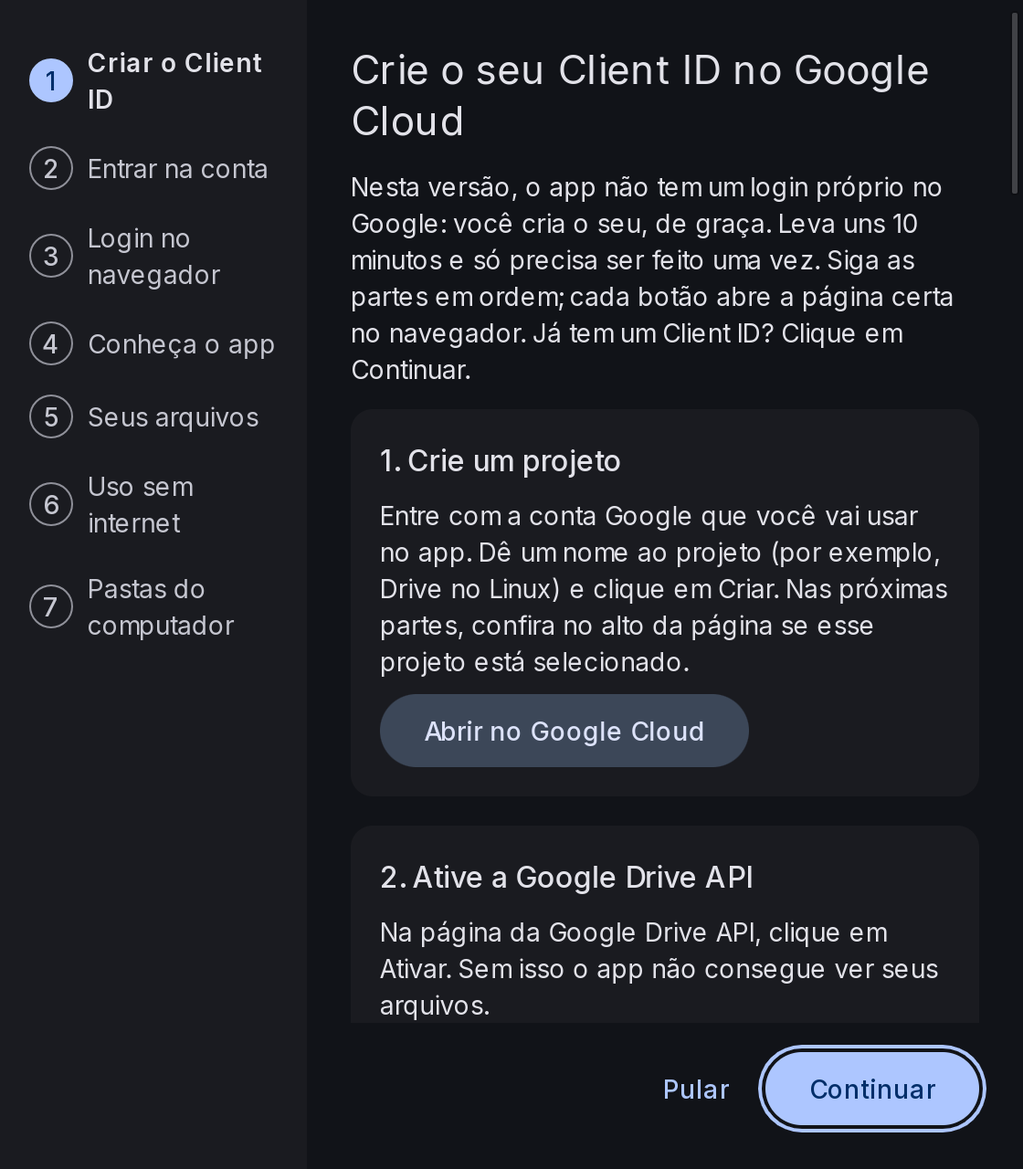
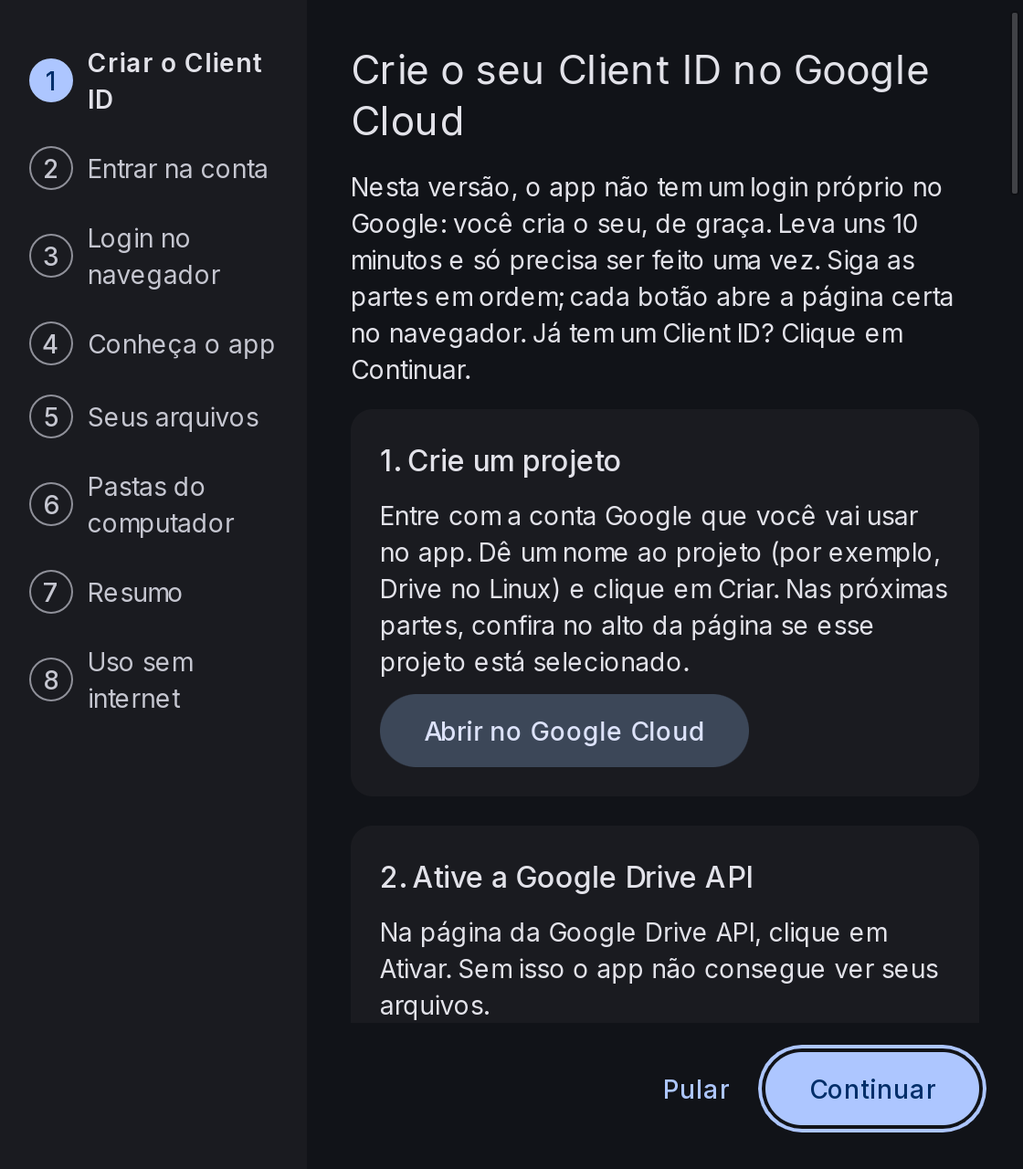
Versão 0.11.0
Matriz de paridade conferida (os quatro itens que faltam ficam em
"Diferenças inevitáveis" no README), CHANGELOG, versão, README, página do
projeto e ajuda. As capturas do README ganham a visão de Drives
compartilhados, as configurações da engrenagem, o Resumo do primeiro uso e o
tour; o teste das capturas e o do Resumo passam a usar o mesmo atalho até o
passo Resumo.

Changed region(s): [[0.0312, 0.5, 0.2188, 0.625], [0.0938, 0.4062, 0.2188, 0.4688]]

diff --git a/crates/gdl-ui/tests/e2e.rs b/crates/gdl-ui/tests/e2e.rs
@@ -1275,7 +1275,20 @@ async fn screenshots_for_the_readme() {
     home.wait_text(".activity-table tbody", "enviado-pelo-teste.txt")
         .await;
     save(&home, "atividade").await;
+    home.click("[data-view='drives']").await;
+    home.wait_text(".drives", "Equipe").await;
+    save(&home, "visao-drives").await;
     drop(home);
+
+    let (summary, _) = open_onboarding_summary().await;
+    save(&summary, "resumo").await;
+    drop(summary);
+
+    let gear = Session::open("preferences").await;
+    gear.click(".settings-gear").await;
+    gear.wait_text(".tab-content", "Iniciar").await;
+    save(&gear, "configuracoes").await;
+    drop(gear);
 
     let search = Session::open("search").await;
     search.fill(".search-field", "r").await;
@@ -1300,6 +1313,7 @@ async fn screenshots_for_the_readme() {
             "Equipe",
             "drives-compartilhados",
         ),
+        ("home:tour", ".tour", "O estado da sincronização", "tour"),
     ] {
         let session = Session::open(screen).await;
         session.wait_text(css, wanted).await;
@@ -1443,10 +1457,8 @@ async fn gear_changes_are_saved_with_the_tabs() {
     assert_eq!(metered.value, "true");
 }
 
-// O passo Resumo do primeiro uso mostra a conta e a pasta do Drive escolhidas.
-#[tokio::test(flavor = "multi_thread")]
-#[ignore = "precisa do scripts/e2e.sh"]
-async fn onboarding_summary_lists_the_choices() {
+/// Abre o primeiro uso já no passo Resumo (com a conta de teste) e devolve o texto dele.
+async fn open_onboarding_summary() -> (Session, String) {
     let account = service().await.status("").await.unwrap().account;
     let session = Session::open("onboarding").await;
     session.wait_text(".step-title", "").await;
@@ -1454,6 +1466,14 @@ async fn onboarding_summary_lists_the_choices() {
         session.click(".continue").await;
     }
     let summary = session.wait_text(".summary", &account).await;
+    (session, summary)
+}
+
+// O passo Resumo do primeiro uso mostra a conta e a pasta do Drive escolhidas.
+#[tokio::test(flavor = "multi_thread")]
+#[ignore = "precisa do scripts/e2e.sh"]
+async fn onboarding_summary_lists_the_choices() {
+    let (session, summary) = open_onboarding_summary().await;
     session.click(".back").await;
     session.find(".suggested-folders").await;
 

diff --git a/docs/paridade.md b/docs/paridade.md
@@ -1,16 +1,19 @@
 # Matriz de paridade
 
 Situação de cada item do catálogo da [especificação](superpowers/specs/2026-10-25-gdrive-desktop-linux-design.md)
-(seção 6) no código, conferida depois da versão 0.10.0 (28/10/2026). A 1.0 sai quando todos os itens estiverem
-**FEITO** ou registrados em "Diferenças conhecidas" no README como risco aceito.
+(seção 6) no código, conferida depois da versão 0.11.0 (28/10/2026). A 1.0 sai quando todos os itens estiverem
+**FEITO** ou registrados em "Diferenças inevitáveis" no README como risco aceito.
 
 Legenda: **FEITO**, **PARCIAL** (existe, mas incompleto), **FALTA**.
 
 | Seções | FEITO | PARCIAL | FALTA |
 |---|---|---|---|
-| 6.1–6.6 (contas, pasta, cache, sincronização, backup, Drives compartilhados) | 63 | 6 | 2 |
-| 6.7–6.11 (janela principal, bandeja, pesquisa, Preferências, primeiro uso) | 71 | 1 | 8 |
-| 6.12–6.17 (Dolphin, compartilhar e versões, notificações, diagnóstico, políticas, MCP) | 71 | 1 | 2 |
+| 6.1–6.6 (contas, pasta, cache, sincronização, backup, Drives compartilhados) | 70 | 0 | 1 |
+| 6.7–6.11 (janela principal, bandeja, pesquisa, Preferências, primeiro uso) | 79 | 0 | 1 |
+| 6.12–6.17 (Dolphin, compartilhar e versões, notificações, diagnóstico, políticas, MCP) | 72 | 0 | 2 |
+
+Os quatro itens em FALTA (NAS, atalho global pelo KGlobalAccel, "Adicionar ao espelho" e
+"Perguntar ao Gemini" no Dolphin) estão em "Diferenças inevitáveis" no README.
 
 Os pacotes `.deb` e `.rpm` exigidos pela 1.0 já saem em cada release (`packaging/nfpm.yaml`,
 `.github/workflows/release.yml`).
@@ -23,8 +26,8 @@ Os pacotes `.deb` e `.rpm` exigidos pela 1.0 já saem em cada release (`packagin
 | 0.8 | Várias contas (até 4), uma montagem por conta, `DisableAddAccount`; Drives compartilhados na montagem, "Gerenciar drives compartilhados" e criar drive; "Adicionar atalho" no menu, escolhendo o local ✅ |
 | 0.9 | Backup de pastas ("Meu computador"), pastas conectadas e "Computadores", modo Espelho com troca entre modos, dispositivos removíveis ✅ (NAS fica como diferença) |
 | 0.10 | Diagnóstico, registro detalhado e feedback; notificações restantes e aviso de nova versão; servidor MCP; políticas restantes; ransomware e recuperação do banco ✅ |
-| 0.11 | Últimos itens da janela, da bandeja e das Preferências; tour de boas-vindas; limites do Drive com mensagem própria |
-| 1.0 | Matriz toda conferida, "Diferenças conhecidas" no README |
+| 0.11 | Últimos itens da janela, da bandeja e das Preferências; tour de boas-vindas; limites do Drive com mensagem própria ✅ |
+| 1.0 | Matriz toda conferida, "Diferenças inevitáveis" no README |
 
 
 Legenda: FEITO, PARCIAL, FALTA. Caminhos relativos a `crates/`. Resumo geral: até 4 contas, cada uma com a própria montagem (Meu Drive e Drives compartilhados); modo Stream ou Espelho, pastas do computador em "Computadores" e backup de dispositivos.
@@ -39,7 +42,7 @@ Legenda: FEITO, PARCIAL, FALTA. Caminhos relativos a `crates/`. Resumo geral: at
 | Página de resultado própria | FEITO | `oauth.rs:261` `result_page` (login-success/login-failure) |
 | Até 4 contas simultâneas | FEITO | `daemon/accounts.rs` (`MAX_ACCOUNTS = 4`), uma montagem por conta (`<pasta> (<e-mail>)` a partir da segunda); testes `second_account_mounts_beside_the_first`, `fifth_account_is_refused` |
 | Adicionar, alternar, reautenticar, desconectar uma/todas | FEITO | `home/account.js` (lista de contas, trocar, "Adicionar outra conta", "Entrar de novo"), `more.js` "Desconectar todas as contas" (`LogoutAll`); testes `signing_in_again_resumes_the_queue`, `logout_of_one_keeps_the_other_mounted` |
-| Erros com mensagem própria | PARCIAL | Timeout, Denied, sem refresh token, "Sem conexão", conta já conectada, máximo atingido, outra conta no "entrar de novo" e `DisableAddAccount` (`onboarding-login-failed-*`). Falta: conta bloqueada/desativada pela organização, "login demorando" |
+| Erros com mensagem própria | FEITO | Timeout, Denied, sem refresh token, "Sem conexão", conta já conectada, máximo atingido, outra conta no "entrar de novo", `DisableAddAccount`, organização que bloqueia o app (`admin_policy_enforced`, `org_internal`) e conta desativada (`onboarding-login-failed-*`); "O login está demorando?" depois de 60 s, com "Gerar link de novo" e os problemas comuns (`gdl-drive/src/oauth.rs`, `onboarding.js`) |
 | Refresh token no Secret Service | FEITO | `gdl-drive/src/token_store.rs` (chaveiro do sistema) |
 | Fluxo de desconexão (contagem, 3 escolhas, confirmação, aviso off-line, progresso) | FEITO | `ui/screens/home/disconnect.js` (finish/move/discard com checkbox de confirmação, `disconnect-offline-warning`, `disconnect-progress`); `daemon.rs:logout` |
 | Política `AllowedAccountsPattern` | FEITO | `daemon.rs:781` `allowed()`; teste em `dbus_tests.rs` |
@@ -85,19 +88,19 @@ Legenda: FEITO, PARCIAL, FALTA. Caminhos relativos a `crates/`. Resumo geral: at
 
 | Item | Situação | Evidência / o que falta |
 |---|---|---|
-| Envio/recebimento automáticos, progresso por item | PARCIAL | `gdl-engine/src/activity.rs` (`ActivityState`: fila, enviando %, enviado, cancelando, cancelado, baixando, lixeira, restaurando). Falta o estado "pausado" por item |
+| Envio/recebimento automáticos, progresso por item | FEITO | `gdl-engine/src/activity.rs` (`ActivityState`: fila, pausado, enviando %, enviado, cancelando, cancelado, baixando, lixeira, restaurando); com a sincronização pausada, a fila aparece como "pausado" |
 | Cancelar upload, aviso "concluiu antes", pasta "uploads cancelados" | FEITO | `uploads.rs CancelOutcome` (Canceled/TooLate/InUse), `kept.rs` |
 | Detecção de conflito por revisão-base | FEITO | `schema.rs`, `changes.rs` (teste `remote_edit_over_dirty_item_marks_conflict`) |
-| Stream: nuvem no caminho original, edição em Lost and Found, notificação com "Ver arquivos" e "Mover tudo para…" | PARCIAL | `uploads.rs:631`, `notify.rs:92` só oferece "Ver arquivos" (`OPEN_LOST_FOUND`). Falta a ação "Mover tudo para…" |
+| Stream: nuvem no caminho original, edição em Lost and Found, notificação com "Ver arquivos" e "Mover tudo para…" | FEITO | `uploads.rs`, `notify.rs` (`OPEN_LOST_FOUND` e `MOVE_LOST_FOUND`); "Mover tudo para…" pede a pasta na janela e chama `MoveLostAndFound` (`gdl-daemon/src/daemon/lost_found.rs`), sem sobrescrever nada |
 | Envio impossível (sem permissão etc.) vai para Lost and Found | FEITO | teste `permission_denied_goes_to_lost_and_found` |
 | Excluído na nuvem com edição pendente: não recria, Lost and Found | FEITO | teste `remote_delete_during_pending_edit_goes_to_lost_and_found_and_is_not_recreated` |
 | Espelho: duas versões lado a lado com sufixo de conflito | FEITO | `gdl-folders/src/decide.rs` (` (conflito AAAA-MM-DD HHhMM)`), teste `both_edited_keeps_both_versions_everywhere` |
 | Recuperar arquivos não sincronizados | FEITO | `uploads.rs:234 recover_on_start`; Lost and Found e pendentes copiáveis no logout `--move` |
 | Recuperação automática após falha do banco local | FEITO | `gdl-store/src/salvage.rs` (`quick_check` na abertura), `gdl-engine/src/recovery.rs`; teste `corrupt_database_keeps_pending_content` |
 | Detecção de ransomware (entropia, pausa, aviso com 3 opções) | FEITO | `gdl-engine/src/ransomware.rs` (entropia > 7,6, 20 em 60 s, formatos comprimidos fora), pausa própria e aviso com as 3 opções; testes `twenty_encrypted_files_pause`, `compressed_formats_do_not_count` |
-| Limites do Drive em mensagens claras | PARCIAL | Cota cheia, limite diário de upload e sem permissão têm categoria e texto (`errors.rs`, `client.rs:120-123`). `DownloadQuotaExceeded` é mapeado mas sem mensagem própria. Faltam 100 níveis de pasta e 500 mil itens em Drive compartilhado |
+| Limites do Drive em mensagens claras | FEITO | Cota cheia, limite diário de upload, limite de download, pasta além de 100 níveis, pasta ou drive compartilhado no limite de 500 mil itens e sem permissão têm categoria e texto (`gdl-engine/src/errors.rs`, `gdl-drive/src/client.rs`) |
 | Lista de erros: categorias, paginação, ações por item | FEITO | `ui/screens/errors.js` + `errors/model.js` (10 por página, Abrir pasta, Tentar de novo) |
-| Lista de erros: aviso de erros em outra conta + trocar de conta | PARCIAL | Avisos levam a conta (`Notification.account`) e o e-mail no corpo com mais de uma conta; a lista de erros ainda não avisa erros de outra conta |
+| Lista de erros: aviso de erros em outra conta + trocar de conta | FEITO | `AccountSummary.errors`; a lista de erros mostra "Há N erros em <e-mail>" para cada outra conta, com "Trocar de conta" (`errors.js`) |
 
 ### 6.5 Backup de pastas do computador e dispositivos
 
@@ -113,7 +116,7 @@ Legenda: FEITO, PARCIAL, FALTA. Caminhos relativos a `crates/`. Resumo geral: at
 | Proibir aninhar pastas sincronizadas | FEITO | `gdl-folders/src/guard.rs` (`overlap`, recusas `nested`/`contains`) |
 | Dispositivos removíveis via UDisks2 (notificação, lembrar, ignorados, backup único, "seguro remover") | FEITO | `gdl-daemon/src/devices.rs` e `daemon/devices.rs` (`Devices`, `BackupDevice`, `IgnoreDevice`, `ForgetDevice`); "Fazer backup" do aviso abre a aba "Meu computador", onde fica o "lembrar" |
 | `DisableExternalMediaSync` e preferência "perguntar sobre dispositivos" | FEITO | `devices_refused`, `PromptToBackupDevices` na aba "Meu computador" |
-| Compartilhamentos de rede (NAS), backup a cada 6 h | FALTA | Volumes de rede e FUSE são recusados (`guard::network_fs`); registrado em "Diferenças conhecidas" |
+| Compartilhamentos de rede (NAS), backup a cada 6 h | FALTA | Volumes de rede e FUSE são recusados (`guard::network_fs`); registrado em "Diferenças inevitáveis" |
 | `DisableMirroredMyDrive` e `DisableMirroredFolders` | FEITO | `mirror_refused`, `folders_refused` (pares guardados não rodam com a política) |
 
 ### 6.6 Drives compartilhados, "Compartilhados comigo" e atalhos
@@ -122,12 +125,12 @@ Legenda: FEITO, PARCIAL, FALTA. Caminhos relativos a `crates/`. Resumo geral: at
 |---|---|---|
 | Drives compartilhados aparecem na montagem | FEITO | `layout.rs` (`Drives compartilhados/<nome>`), `client.rs` (`supportsAllDrives`, `drives`); nomes repetidos ganham o fim do id (`drive_dir_names`); testes `shared_drive_folder_lists_enabled_drives`, `same_named_drives_get_distinct_folders` |
 | Tela "Gerenciar drives compartilhados" (ligar/desligar, salvar/cancelar) | FEITO | `ui/screens/shared-drives.js` (Preferências e menu na pasta "Drives compartilhados"); desligar com envio pendente é recusado; e2e `shared_drives_screen_saves_and_creates` |
-| Aviso de drive com alta atividade | FALTA | Não existe |
+| Aviso de drive com alta atividade | FEITO | Mais de 1 000 mudanças numa consulta avisam `busy-shared-drive`, no máximo uma vez por dia por drive (`gdl-engine/src/changes.rs`); família que pode ser desligada |
 | Criar Drive compartilhado (tela e menu de contexto, nome único) | FEITO | `CreateSharedDrive` (nome único com " (2)"), "Novo Drive compartilhado" na tela e no menu da pasta "Drives compartilhados"; teste `new_drive_names_are_unique` |
 | "Compartilhados comigo": lista com data | FEITO | `ipc SharedItem.shared_ms`, `ui/screens/home/shared.js`, `search.rs:74` |
 | "Adicionar atalho" no local escolhido | FEITO | Tela `shortcut.js` (Meu Drive e drives que aceitam itens, descendo pelas pastas), aberta pelo menu e por "Compartilhados comigo"; teste `shortcut_goes_to_the_chosen_folder`, e2e `shortcut_screen_picks_a_folder` |
 | "Abrir na web" | FEITO | `shared.js:23` (`open_item` target `web`) |
-| Avisos ao mover entre Drives compartilhados/pastas compartilhadas (com "não mostrar de novo") | PARCIAL | Mover arquivo para um drive avisa `moved-to-shared-drive` (família que pode ser desligada); falta o aviso ao mover para pastas compartilhadas por outras pessoas |
+| Avisos ao mover entre Drives compartilhados/pastas compartilhadas (com "não mostrar de novo") | FEITO | `moved-to-shared-drive` e `moved-to-shared-folder` (pasta do Meu Drive que é de outra pessoa, pelo `ownedByMe`), as duas famílias desligáveis (`gdl-engine/src/ops.rs`) |
 | Mover pasta do Meu Drive para Drive compartilhado: não suportado e orienta web | FEITO | `Engine::move_item` (`FolderCrossDrive` → `EPERM`) e aviso `folder-move-unsupported`; teste `moving_a_folder_into_a_shared_drive_is_refused` |
 
 
@@ -147,19 +150,19 @@ Frontend: `crates/gdl-ui/ui/` (JS puro). Bandeja: `crates/gdl-tray/src/{model,ma
 | Gerenciar armazenamento, Privacidade, Termos | FEITO | `account.js` (`openLink('storage'/'privacy'/'terms')`) |
 | Início: cartão Precisa de atenção | FEITO | `home/start.js` `attention` |
 | Início: Arquivos off-line, Compartilhados comigo, Status de sincronização, Gemini | FEITO | `home/start.js` `render` |
-| Início: Drives compartilhados | FALTA | Nenhum cartão nem código de shared drives |
+| Início: Drives compartilhados | FEITO | Cartão de Drives compartilhados no Início (`home/model.js` `drivesCard`) |
 | Início: Pastas conectadas | FEITO | Cartão "Pastas conectadas" (`foldersCard`) |
 | Atividade: tabela paginada e ordenável | FEITO | `home/activity.js` (`sortRows`, `paginate`, tamanhos 10/25/50) |
 | Atividade: menu por linha (abrir no gerenciador, abrir na web, copiar link, cancelar upload) | FEITO | `activity.js` `rowMenu` |
-| Atividade: "Compartilhar" (só após upload) | FALTA | `rowMenu` não tem a ação |
+| Atividade: "Compartilhar" (só após upload) | FEITO | `rowActions` no menu da linha: "Compartilhar" só em item já no Drive |
 | Visão Pastas conectadas | FEITO | Visão com as linhas de `folderRows` e o mesmo menu das Preferências |
 | Visão Arquivos off-line | FEITO | `home/offline.js` + tela `offline.js` |
 | Visão Compartilhados comigo | FEITO | `home/shared.js` (Adicionar atalho / Abrir na web) |
-| Visão Drives compartilhados | FALTA | Não há visão na janela principal; a tela "Gerenciar drives compartilhados" (`shared-drives.js`) existe à parte |
+| Visão Drives compartilhados | FEITO | Visão `drives` da janela principal (`home/drives.js`): abrir a pasta ou na web e "Gerenciar drives compartilhados" |
 | Notificações com contador de não lidas | FEITO | `home/notifications.js`, `home.js` `setUnread` / `updateBadge` |
 | Links rápidos (Drive web, FAQ, ajuda off-line) | FEITO | `home/links.js` |
 | Mais opções: Arquivos off-line, Lista de erros (contagem), Preferências, Sobre | FEITO | `home/more.js` `moreMenu` |
-| Mais opções: Gerenciar drives compartilhados | FALTA | Ausente |
+| Mais opções: Gerenciar drives compartilhados | FEITO | Item do menu Mais opções (`more.js`) |
 | Mais opções: Enviar feedback | FEITO | `more.js` → tela `feedback` |
 | Mais opções: registro detalhado liga/desliga | FEITO | `more.js` `verbose` (`set_verbose_logging`) |
 | Mais opções: gerar informações de diagnóstico | FEITO | `more.js` `diagnostics` (`generate_diagnostics`) |
@@ -181,7 +184,7 @@ Frontend: `crates/gdl-ui/ui/` (JS puro). Bandeja: `crates/gdl-tray/src/{model,ma
 | Menu direito: Abrir pasta, Abrir no navegador, Pesquisar, Pausar/Retomar | FEITO | `model.rs` `items` |
 | Menu direito: Arquivos off-line, Lista de erros (contagem), Preferências, Sobre, Sair | FEITO | `model.rs` `items` |
 | Menu direito: Enviar feedback, diagnóstico | FEITO | `model.rs` `tray-feedback`, `Action::GenerateDiagnostics` |
-| Menu direito: Gerenciar drives compartilhados, registro detalhado, Redefinir preferências, Desconectar todas | FALTA | Sem item na bandeja (0.11) |
+| Menu direito: Gerenciar drives compartilhados, registro detalhado, Redefinir preferências, Desconectar todas | FEITO | `gdl-tray/src/model.rs`: os quatro itens; os que pedem confirmação abrem a janela (`home:reset-preferences`, `home:disconnect-all`) |
 
 ### 6.9 Pesquisa rápida
 
@@ -201,7 +204,7 @@ Frontend: `crates/gdl-ui/ui/` (JS puro). Bandeja: `crates/gdl-tray/src/{model,ma
 
 | Item | Situação | Evidência / o que falta |
 |---|---|---|
-| Duas abas "Meu computador" e "Google Drive" | PARCIAL | `preferences.js` `TABS` tem 3 abas (computer, drive, settings); as avançadas ficam numa aba "Configurações" |
+| Duas abas "Meu computador" e "Google Drive" | FEITO | `preferences.js`: duas abas e a engrenagem, que abre as configurações avançadas com "Voltar" |
 | Aba "Meu computador" (seção 6.5: pastas do computador) | FEITO | `computerTab`: pastas e dispositivos |
 | Aba Drive: modo Stream | FEITO | `driveTab` |
 | Aba Drive: modo Espelho | FEITO | `driveTab` `toMirror`/`toStream` (a troca vale ao confirmar o diálogo) |
@@ -221,7 +224,7 @@ Frontend: `crates/gdl-ui/ui/` (JS puro). Bandeja: `crates/gdl-tray/src/{model,ma
 | Tema (sistema ou claro) | FEITO | `theme()` (`UITheme`) |
 | Desconectar a conta | FEITO | `settingsTab` seção `pref-account` |
 | Itens por política bloqueados "Gerenciado pelo administrador" | FEITO | `row()` (fieldset disabled + `pref-managed`), `fromPrefs` `managed` |
-| Tour de boas-vindas opcional | FALTA | Nenhum tour além do onboarding |
+| Tour de boas-vindas opcional | FEITO | `ui/tour/`: tour da janela principal, oferecido no fim do primeiro uso e em Preferências > Outros |
 
 ### 6.11 Primeiro uso
 
@@ -233,7 +236,7 @@ Frontend: `crates/gdl-ui/ui/` (JS puro). Bandeja: `crates/gdl-tray/src/{model,ma
 | 3. Apresentação | FEITO | passo `intro` |
 | 4. "Veja seus arquivos no Dolphin" com botão abrir | FEITO | passo `files` (`api.openMount`) |
 | 5. Escolher pastas para sincronizar (sugestões e tamanho) | FEITO | Passo `folders` do primeiro uso |
-| 6. Resumo | FALTA | Sem passo |
+| 6. Resumo | FEITO | Passo Resumo do primeiro uso (`summaryRows`): conta, modo, pasta e pastas escolhidas |
 | 7. Como tornar disponível off-line | FEITO | passo `offline` |
 | Botões Pular, Voltar, Continuar | FEITO | `footer`, `actions` em `onboarding/model.js` |
 | Política `DisableOnboardingDialog` | FEITO | `gdl-common/src/config.rs:119`; `onboarding.js` `loginOnly`; `stepsFor` |
@@ -256,7 +259,7 @@ Legenda: FEITO / PARCIAL / FALTA. Caminhos relativos à raiz do repositório.
 | Ver lixeira | FEITO | `Action::Trash` (`menu.rs:51,153`). |
 | Atualizar pasta | FEITO | `Action::Refresh`. |
 | Enviar ou sincronizar esta pasta (fora da montagem) | FEITO | `Action::SyncFolder` abre o configurador; emblemas nas pastas sincronizadas (`FolderStates`). |
-| Adicionar ao espelho da conta 1–4 | FALTA | Serve ao Espelho de pastas escolhidas, que não existe no Linux; registrado em "Diferenças conhecidas". |
+| Adicionar ao espelho da conta 1–4 | FALTA | Serve ao Espelho de pastas escolhidas, que não existe no Linux; registrado em "Diferenças inevitáveis". |
 | Gerenciar / Criar drive compartilhado | FEITO | `menu.rs` `NewSharedDrive`/`ManageSharedDrives` na pasta "Drives compartilhados" |
 | Criar novo documento, planilha, apresentação | FEITO | `Action::NewDocument/NewSpreadsheet/NewPresentation`, `menu.rs:47-49,67-77`. |
 | Perguntar ao Gemini (web) | FALTA | Nenhuma ação no menu (só cartão Gemini na janela principal). |
@@ -284,7 +287,7 @@ Legenda: FEITO / PARCIAL / FALTA. Caminhos relativos à raiz do repositório.
 | Erros fatais e de conta | FEITO | `Offline`, `UploadFailed`, login expirado (`NeedsSignIn`, com "Entrar") e conta bloqueada pela organização (`AccountDisabled`, 403 `domainPolicy`). |
 | Armazenamento e cota | FEITO | `QuotaFull`, `DiskLow`, `QuotaAlmostFull` (90 % e 95 %, `gdl-engine/src/health.rs`) e `LocalDiskFull` (`ENOSPC` ao gravar). |
 | Sincronização e pastas | FEITO | `LostAndFound`, `SavedWhilePaused`, `UploadCanceled`, `CopiedAsShortcut`, pastas conectadas, exclusão em massa, `ItemsRecovered`, `UploadsStuck` (3 dias) e itens movidos para a lixeira (`notify::items_trashed`). |
-| Permissões e movimentações | PARCIAL | `NoPermission` (criar, mover, renomear, excluir; a montagem responde `EACCES`). Faltam os avisos de Drive compartilhado com muita atividade e de mover para pasta compartilhada por outra pessoa (0.11). |
+| Permissões e movimentações | FEITO | `NoPermission` (criar, mover, renomear, excluir; a montagem responde `EACCES`), Drive compartilhado com muita atividade e mover para pasta de outra pessoa |
 | Dispositivos (backup?, seguro remover, backup concluído/erro) | FEITO | `notify::device_ask`/`device_done` (um aviso por dispositivo). |
 | "Nova versão do app" (releases do GitHub) | FEITO | `gdl-daemon/src/updates.rs`, `daemon/releases.rs` (1 min depois da partida e a cada 24 h; cada versão avisa uma vez). |
 | "Não mostrar de novo" + tela Preferências de notificação | FEITO | `dbus.rs:78-88`, `ui/screens/notification-settings.js`. |

diff --git a/README.md b/README.md
@@ -4,7 +4,7 @@
 
 # gdrive-desktop-linux
 
-![Versão](https://img.shields.io/badge/vers%C3%A3o-0.8.0-blue)
+![Versão](https://img.shields.io/badge/vers%C3%A3o-0.11.0-blue)
 ![Situação](https://img.shields.io/badge/situa%C3%A7%C3%A3o-pr%C3%A9via-orange)
 ![Licença](https://img.shields.io/badge/licen%C3%A7a-GPL--3.0-green)
 ![Linguagem](https://img.shields.io/badge/Rust-%E2%9C%93-b7410e)
@@ -39,8 +39,8 @@ Este projeto quer preencher essa lacuna com um app **nativo de Linux**, feito do
 | **Off-line** | ✅ "Disponível off-line" em arquivos e pastas; as alterações feitas sem internet sobem quando a conexão volta. |
 | **Sincronização** | ✅ Envio e recebimento automáticos, fila que sobrevive a reinícios, conflitos guardados no Lost and Found, lixeira, limites de banda e pausa. |
 | **Documentos Google** | ✅ Docs, Planilhas e Apresentações aparecem na pasta e abrem no navegador com duplo clique. |
-| **Bandeja e janela** | ✅ Ícone na bandeja, janela principal, atividade com progresso, pesquisa rápida, erros, arquivos off-line, preferências, notificações e menu da conta com foto e uso do espaço. |
-| **Primeiro uso** | ✅ Guia do Client ID dentro do app, com botões que abrem cada página do Google Cloud. |
+| **Bandeja e janela** | ✅ Ícone na bandeja, janela principal, atividade com progresso, pesquisa rápida, erros (avisando quando são de outra conta), arquivos off-line, Preferências com as abas e a engrenagem como no original, notificações e menu da conta com foto e uso do espaço. |
+| **Primeiro uso** | ✅ Guia do Client ID dentro do app, com botões que abrem cada página do Google Cloud, Resumo do que foi escolhido e tour da janela principal. |
 | **Miniaturas** | ✅ As imagens aparecem com miniatura no Dolphin e em outros gerenciadores, usando as miniaturas do próprio Google, sem baixar os arquivos. |
 | **Menu do botão direito** | ✅ Abrir no navegador, copiar link (com o aviso de quem pode abrir), adicionar atalho ao Drive, sincronizar uma pasta do computador, off-line / só on-line, novo Documento, Planilha ou Apresentação, atualizar e lixeira, no Dolphin, Nautilus, Nemo, Caja, Thunar e COSMIC Files. |
 | **Compartilhar e versões** | ✅ Pelo menu do botão direito: janela Compartilhar (pessoas, papéis, acesso geral e link), Gerenciar versões (baixar, restaurar, manter para sempre) e arquivos do Office abertos no Docs, Planilhas ou Apresentações. |
@@ -48,9 +48,9 @@ Este projeto quer preencher essa lacuna com um app **nativo de Linux**, feito do
 | **Ícones de status** | ✅ Na nuvem, off-line, sincronizando e em conflito, no Dolphin, também nas pastas do computador sincronizadas. A pasta do Drive fica fora do indexador do KDE (Baloo), que baixaria tudo para ler. |
 | **Backup e espelho** | ✅ Pastas do computador sincronizadas com "Computadores" no Drive, o Meu Drive em modo Espelho (cópia completa numa pasta comum, com a troca de volta para o Stream) e backup de pendrives e cartões de memória quando são conectados. |
 | **Contas** | ✅ Até 4 contas Google ao mesmo tempo, cada uma com a própria pasta, trocadas pelo menu da conta. |
-| **Drives compartilhados** | ✅ Na pasta de cada conta, com a janela "Gerenciar drives compartilhados" para escolher quais aparecem e criar um novo. |
-| **Proteção e recuperação** | ✅ Arquivos regravados com cara de cifrados por um vírus pausam os envios e pedem confirmação; dados locais danificados são refeitos a partir do Drive, com as edições pendentes guardadas no Lost and Found. |
-| **Avisos** | ✅ Sem permissão, conta bloqueada, armazenamento quase cheio, disco cheio, envios parados há dias, itens recuperados, nova versão do app e os demais, cada tipo podendo ser desligado nas preferências de notificação. |
+| **Drives compartilhados** | ✅ Na pasta de cada conta e numa visão própria da janela principal, com a janela "Gerenciar drives compartilhados" para escolher quais aparecem e criar um novo. |
+| **Proteção e recuperação** | ✅ Arquivos regravados com cara de cifrados por um vírus pausam os envios e pedem confirmação; dados locais danificados são refeitos a partir do Drive, com as edições pendentes guardadas no Lost and Found, que pode ser levado inteiro para uma pasta escolhida. |
+| **Avisos** | ✅ Sem permissão, conta bloqueada, armazenamento quase cheio, disco cheio, envios parados há dias, itens recuperados, limites do Drive, login bloqueado pela organização, itens movidos para onde outras pessoas veem, nova versão do app e os demais, cada tipo podendo ser desligado nas preferências de notificação. |
 | **Diagnóstico e feedback** | ✅ Registro detalhado, pacote de informações de diagnóstico sem tokens nem e-mails, Enviar feedback (issue já preenchida) e relatório de falhas, enviado só por você. |
 | **Assistentes de IA** | ✅ Servidor MCP: estado e link de um caminho, pastas acompanhadas, janela Compartilhar com o e-mail já digitado e adicionar pastas à sincronização. |
 
@@ -73,6 +73,10 @@ A lista completa e detalhada fica na especificação em [`docs/`](docs/).
 | ![Lista de Drives compartilhados com uma chave para cada um](docs/imagens/drives-compartilhados.png) | ![Escolha da pasta do atalho: o Meu Drive e os Drives compartilhados](docs/imagens/adicionar-atalho.png) |
 | **Meu computador** | **Espelhar o Meu Drive** |
 | ![Pastas do computador e dispositivos USB nas preferências](docs/imagens/meu-computador.png) | ![Escolha da pasta do Espelho, com o tamanho a baixar e o espaço livre](docs/imagens/espelhar.png) |
+| **Drives compartilhados** | **Configurações (engrenagem)** |
+| ![Visão Drives compartilhados da janela principal, com abrir na pasta ou na web](docs/imagens/visao-drives.png) | ![Configurações atrás da engrenagem das Preferências](docs/imagens/configuracoes.png) |
+| **Resumo do primeiro uso** | **Tour da janela principal** |
+| ![Resumo com a conta, o modo do Meu Drive e as pastas escolhidas](docs/imagens/resumo.png) | ![Balão do tour sobre o estado da sincronização](docs/imagens/tour.png) |
 | **Enviar feedback** | |
 | ![Enviar feedback: o tipo, a descrição e o pacote de diagnóstico opcional](docs/imagens/feedback.png) | |
 
@@ -262,8 +266,8 @@ Cada etapa sai funcionando antes da próxima.
 | 0.7 | Dolphin completo: ícones de status, janelas de compartilhar e de versões |
 | 0.8 | Várias contas e Drives compartilhados |
 | 0.9 | Backup de pastas, pastas conectadas, modo espelho e dispositivos |
-| 0.10 | Diagnóstico e feedback, notificações restantes, servidor MCP, políticas restantes, ransomware e recuperação do banco ← **estamos aqui** |
-| 0.11 | Últimos itens da janela, da bandeja e das Preferências; tour de boas-vindas; limites do Drive com mensagem própria |
+| 0.10 | Diagnóstico e feedback, notificações restantes, servidor MCP, políticas restantes, ransomware e recuperação do banco |
+| 0.11 | Últimos itens da janela, da bandeja e das Preferências; tour de boas-vindas; limites do Drive com mensagem própria ← **estamos aqui** |
 | 1.0 | Paridade com a versão Windows, item a item na [matriz de paridade](docs/paridade.md) |
 
 ## Versionamento

diff --git a/docs/ajuda.md b/docs/ajuda.md
@@ -6,6 +6,8 @@
 2. Clique no ícone do Google Drive na bandeja e escolha **Fazer login**.
 3. Depois do login, a pasta `~/Google Drive` aparece com o `Meu Drive` dentro, e também no painel
    "Locais" do Dolphin. Os Drives compartilhados ficam em `~/Google Drive/Drives compartilhados`.
+4. O primeiro uso termina com um **Resumo** do que foi escolhido e oferece o **tour** da janela
+   principal, que também fica nas Preferências.
 
 ## Várias contas
 
@@ -18,9 +20,11 @@ opções** há **Desconectar todas as contas**.
 ## Drives compartilhados
 
 Em **Preferências › Google Drive › Gerenciar drives compartilhados** (ou pelo botão direito na
-pasta "Drives compartilhados"), escolha quais drives aparecem na pasta e crie um novo. Mover um
+pasta "Drives compartilhados", ou na visão **Drives compartilhados** da janela principal), escolha quais drives aparecem na pasta e crie um novo. Mover um
 arquivo para um Drive compartilhado muda quem pode vê-lo; mover uma pasta do Meu Drive para um
-drive não é possível pelo app e precisa ser feito no Drive pela web.
+drive não é possível pelo app e precisa ser feito no Drive pela web. O app avisa quando um item
+vai para um Drive compartilhado ou para a pasta de outra pessoa, e quando um Drive compartilhado
+tem muita atividade.
 
 ## Espelho do Meu Drive
 
@@ -54,10 +58,14 @@ ignorá-lo ou desligar a pergunta.
 - **Início:** o que precisa de atenção, os arquivos off-line, os compartilhados com você e o
   estado da sincronização.
 - **Atividade de sincronização:** o que subiu, desceu ou foi para a lixeira, com o menu de cada
-  linha (abrir, copiar link, cancelar um envio).
+  linha (abrir, copiar link, compartilhar, cancelar um envio). Com os envios pausados, a fila
+  aparece como "Pausado".
+- **Drives compartilhados:** abrir cada drive na pasta ou na web.
 - **Notificações:** o histórico dos avisos.
-- **Mais opções:** arquivos off-line, lista de erros, preferências, desconectar todas as contas e
-  sair.
+- **Mais opções:** arquivos off-line, lista de erros, preferências, Drives compartilhados,
+  desconectar todas as contas e sair.
+- **Preferências:** as abas **Meu computador** e **Google Drive**; as demais configurações ficam
+  atrás da engrenagem.
 
 ## Arquivos off-line
 
@@ -90,7 +98,9 @@ sincronização** retoma. Fotos, vídeos, `.zip` e outros formatos já comprimid
 Se os dados do app de uma conta se danificarem (queda de energia, disco com defeito), o app os
 guarda numa pasta `recuperacao` e lê a conta de novo do Drive. As edições que ainda não tinham
 subido vão para o Lost and Found, na pasta "Recuperados <data>"; o aviso "Itens recuperados" leva
-até elas. Nada é reenviado sozinho: mova de volta para a pasta do Drive o que quiser manter.
+até elas. Nada é reenviado sozinho: mova de volta para a pasta do Drive o que quiser manter. No
+aviso do Lost and Found, **Mover tudo para…** leva tudo para uma pasta escolhida, sem sobrescrever
+nada.
 
 ## Assistentes de IA (MCP)
 

diff --git a/CHANGELOG.md b/CHANGELOG.md
@@ -7,6 +7,36 @@ O formato segue o [Keep a Changelog](https://keepachangelog.com/pt-BR/1.1.0/), e
 
 ## [Não lançado]
 
+## [0.11.0] - 2026-10-28
+
+### Adicionado
+- Bandeja: Gerenciar drives compartilhados, Ativar/Desativar o registro detalhado, Redefinir as
+  preferências e Desconectar todas as contas (estes dois pedem confirmação na janela principal).
+  Mais opções ganha Gerenciar drives compartilhados.
+- Janela principal: cartão e visão "Drives compartilhados", com abrir na pasta ou na web e
+  "Gerenciar drives compartilhados".
+- Atividade: "Compartilhar" no menu de um item enviado; com os envios pausados, a fila aparece
+  como "Pausado".
+- Preferências com as abas "Meu computador" e "Google Drive" e as configurações atrás da
+  engrenagem, como no original.
+- Primeiro uso: passo de Resumo (conta, modo do Meu Drive, pasta e pastas escolhidas) e um tour da
+  janela principal, também nas Preferências.
+- Aviso do Lost and Found com "Mover tudo para…": leva as cópias guardadas para uma pasta
+  escolhida, sem sobrescrever nada.
+- Mensagens próprias para os limites do Drive: limite de download, pasta com níveis demais e Drive
+  compartilhado cheio.
+- Lista de erros: avisa quando os erros são de outra conta e troca para ela.
+- Login: mensagens para bloqueio pela organização e conta desativada; depois de um minuto, ajuda
+  para quando o login demora, com um link novo.
+- Avisos de Drive compartilhado: mover para a pasta de outra pessoa ou para um Drive compartilhado
+  (outras pessoas passam a ver) e Drive compartilhado com muita atividade (uma vez por dia).
+
+### Mudado
+- D-Bus: `MoveLostAndFound`; `AccountSummary` ganha a contagem de erros; categorias de erro
+  `download-limit`, `folder-too-deep` e `shared-drive-full`; `LoginFinished` com os motivos
+  `blocked-by-organization` e `account-disabled`.
+- O banco ganha a coluna `owned_by_me` (migração automática).
+
 ## [0.10.0] - 2026-10-27
 
 ### Adicionado
@@ -489,7 +519,8 @@ O formato segue o [Keep a Changelog](https://keepachangelog.com/pt-BR/1.1.0/), e
 - `.gitignore` que impede a entrada de binários de terceiros e de material de engenharia reversa.
 - Este CHANGELOG e a política de versionamento.
 
-[Não lançado]: https://github.com/junior9283/gdrive-desktop-linux/compare/v0.10.0...HEAD
+[Não lançado]: https://github.com/junior9283/gdrive-desktop-linux/compare/v0.11.0...HEAD
+[0.11.0]: https://github.com/junior9283/gdrive-desktop-linux/compare/v0.10.0...v0.11.0
 [0.10.0]: https://github.com/junior9283/gdrive-desktop-linux/compare/v0.9.0...v0.10.0
 [0.9.0]: https://github.com/junior9283/gdrive-desktop-linux/compare/v0.8.0...v0.9.0
 [0.8.0]: https://github.com/junior9283/gdrive-desktop-linux/compare/v0.7.0...v0.8.0

diff --git a/docs/index.md b/docs/index.md
@@ -12,7 +12,7 @@ Cliente **não oficial** do Google Drive para Linux, de código aberto (GPL-3.0)
 Ele mostra o seu Drive como uma pasta no computador, em que os arquivos ficam na nuvem até você
 abrir, com ícone na bandeja, pesquisa, arquivos disponíveis off-line, sincronização automática,
 até 4 contas ao mesmo tempo, Drives compartilhados, o modo Espelho (o Meu Drive inteiro numa pasta
-do computador), pastas do computador sincronizadas, backup de pendrives e, no gerenciador de
+do computador), pastas do computador sincronizadas, backup de pendrives, um tour de boas-vindas e, no gerenciador de
 arquivos, emblemas de estado, compartilhamento, versões e atalhos pelo botão direito. Ele também
 pausa os envios diante de arquivos que parecem cifrados por um vírus, recupera as edições se os
 dados locais se danificarem e tem um servidor MCP para assistentes de IA.
